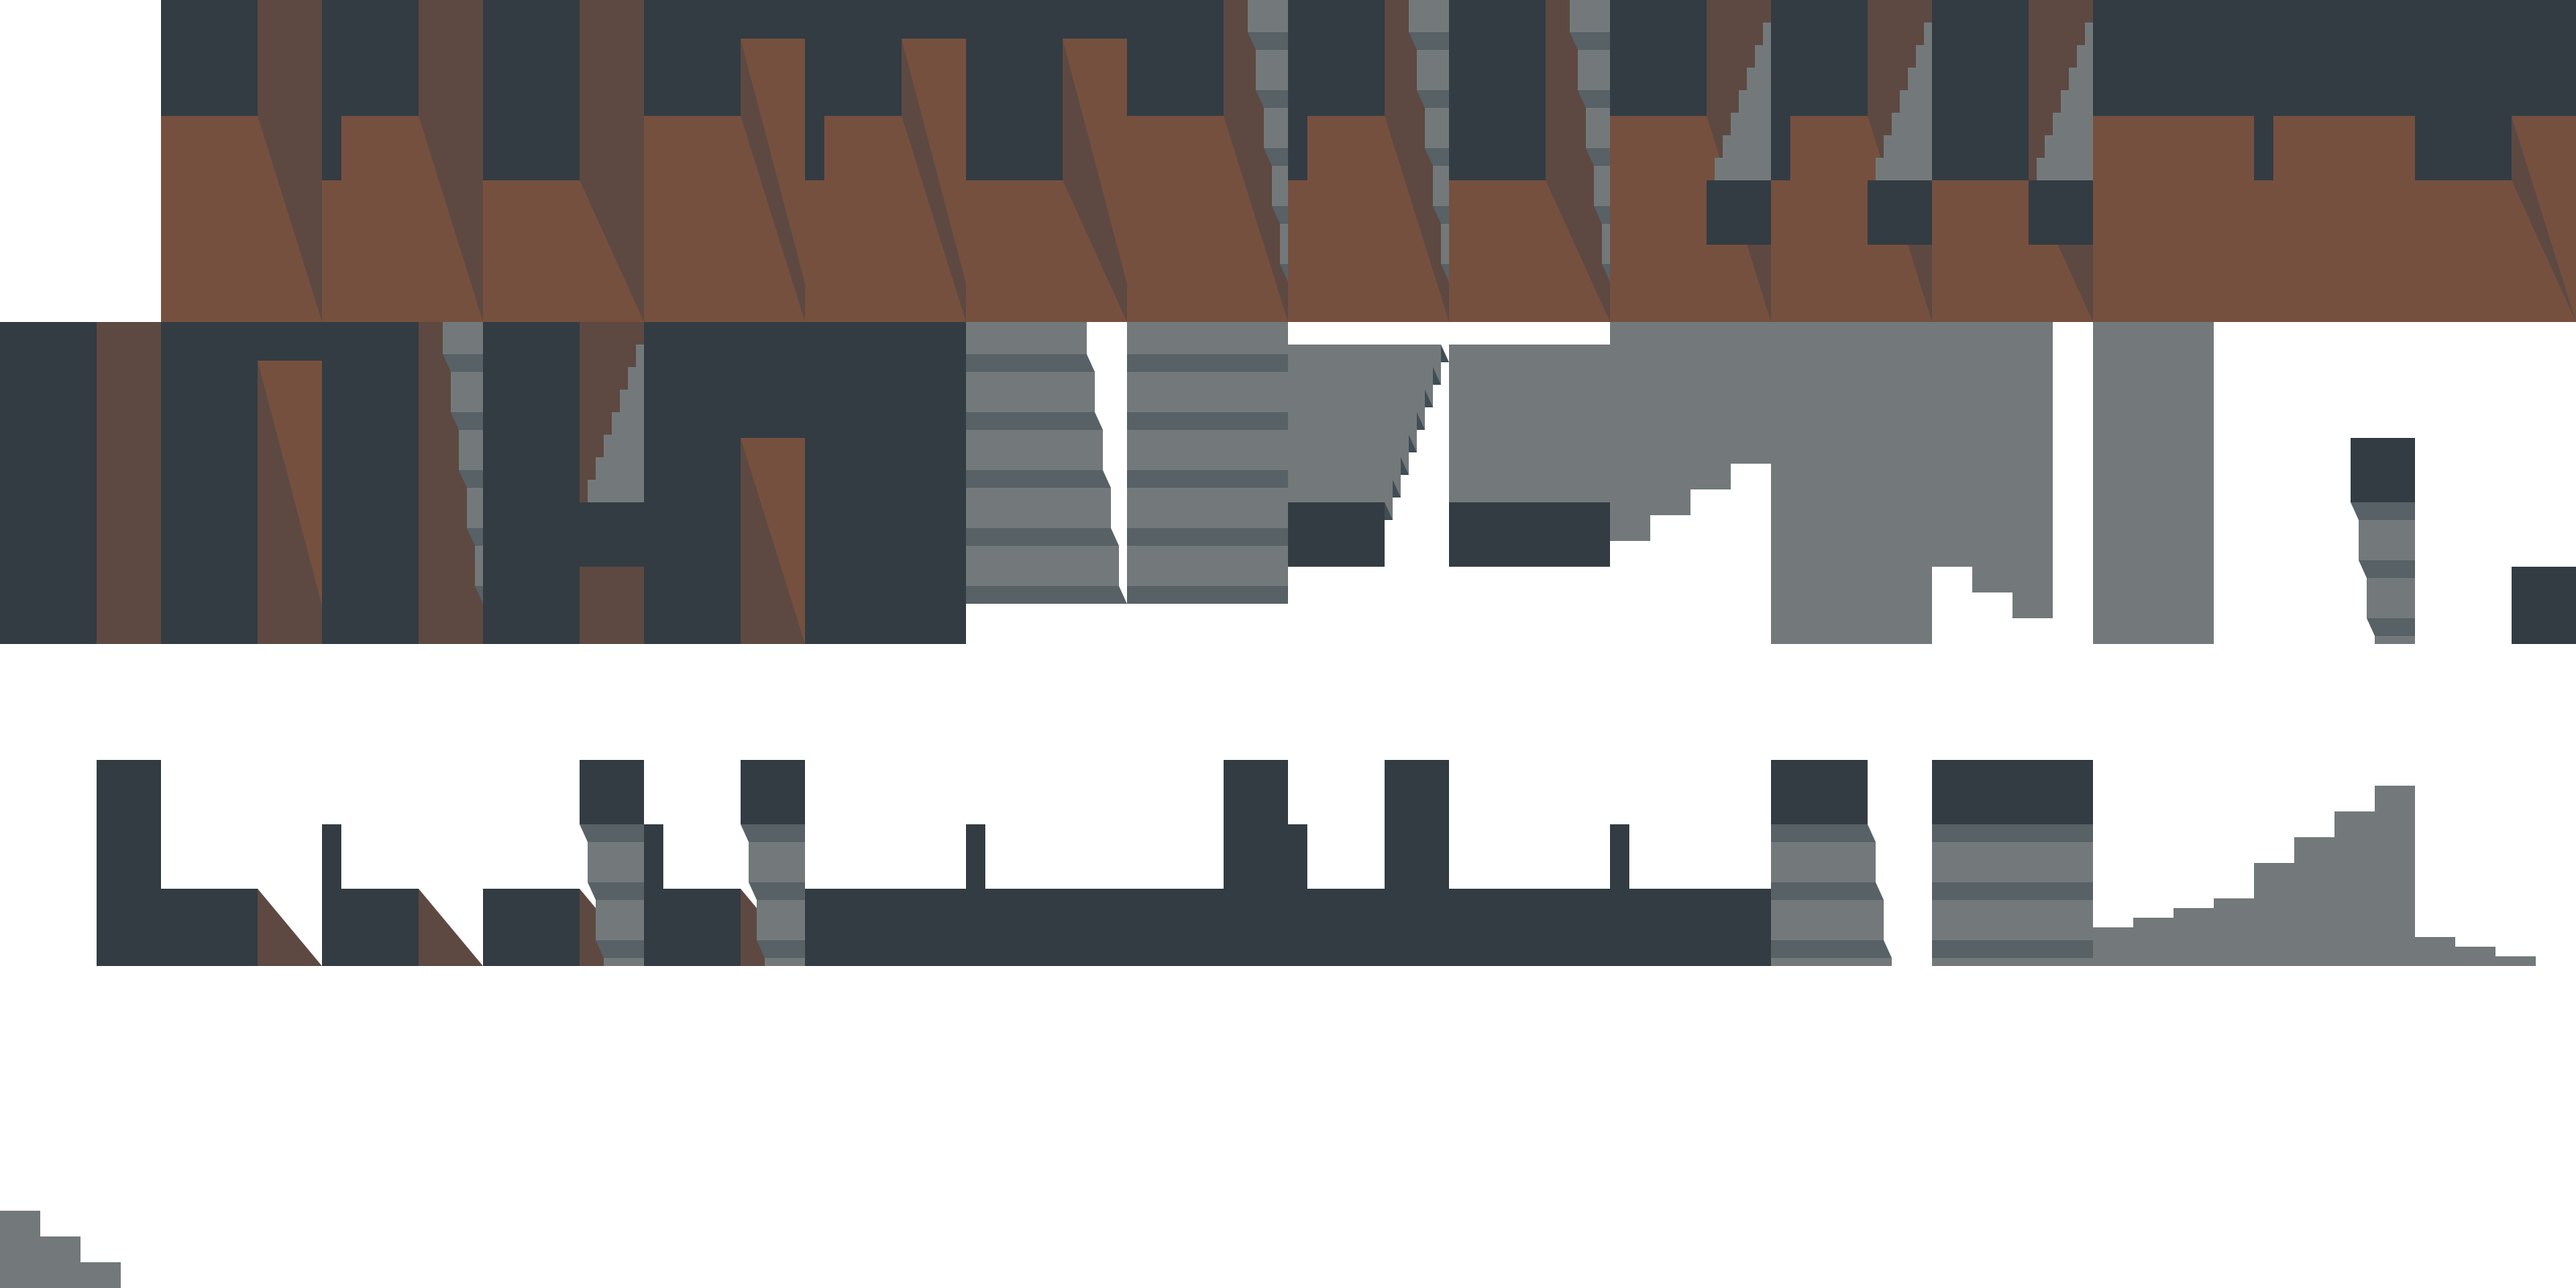
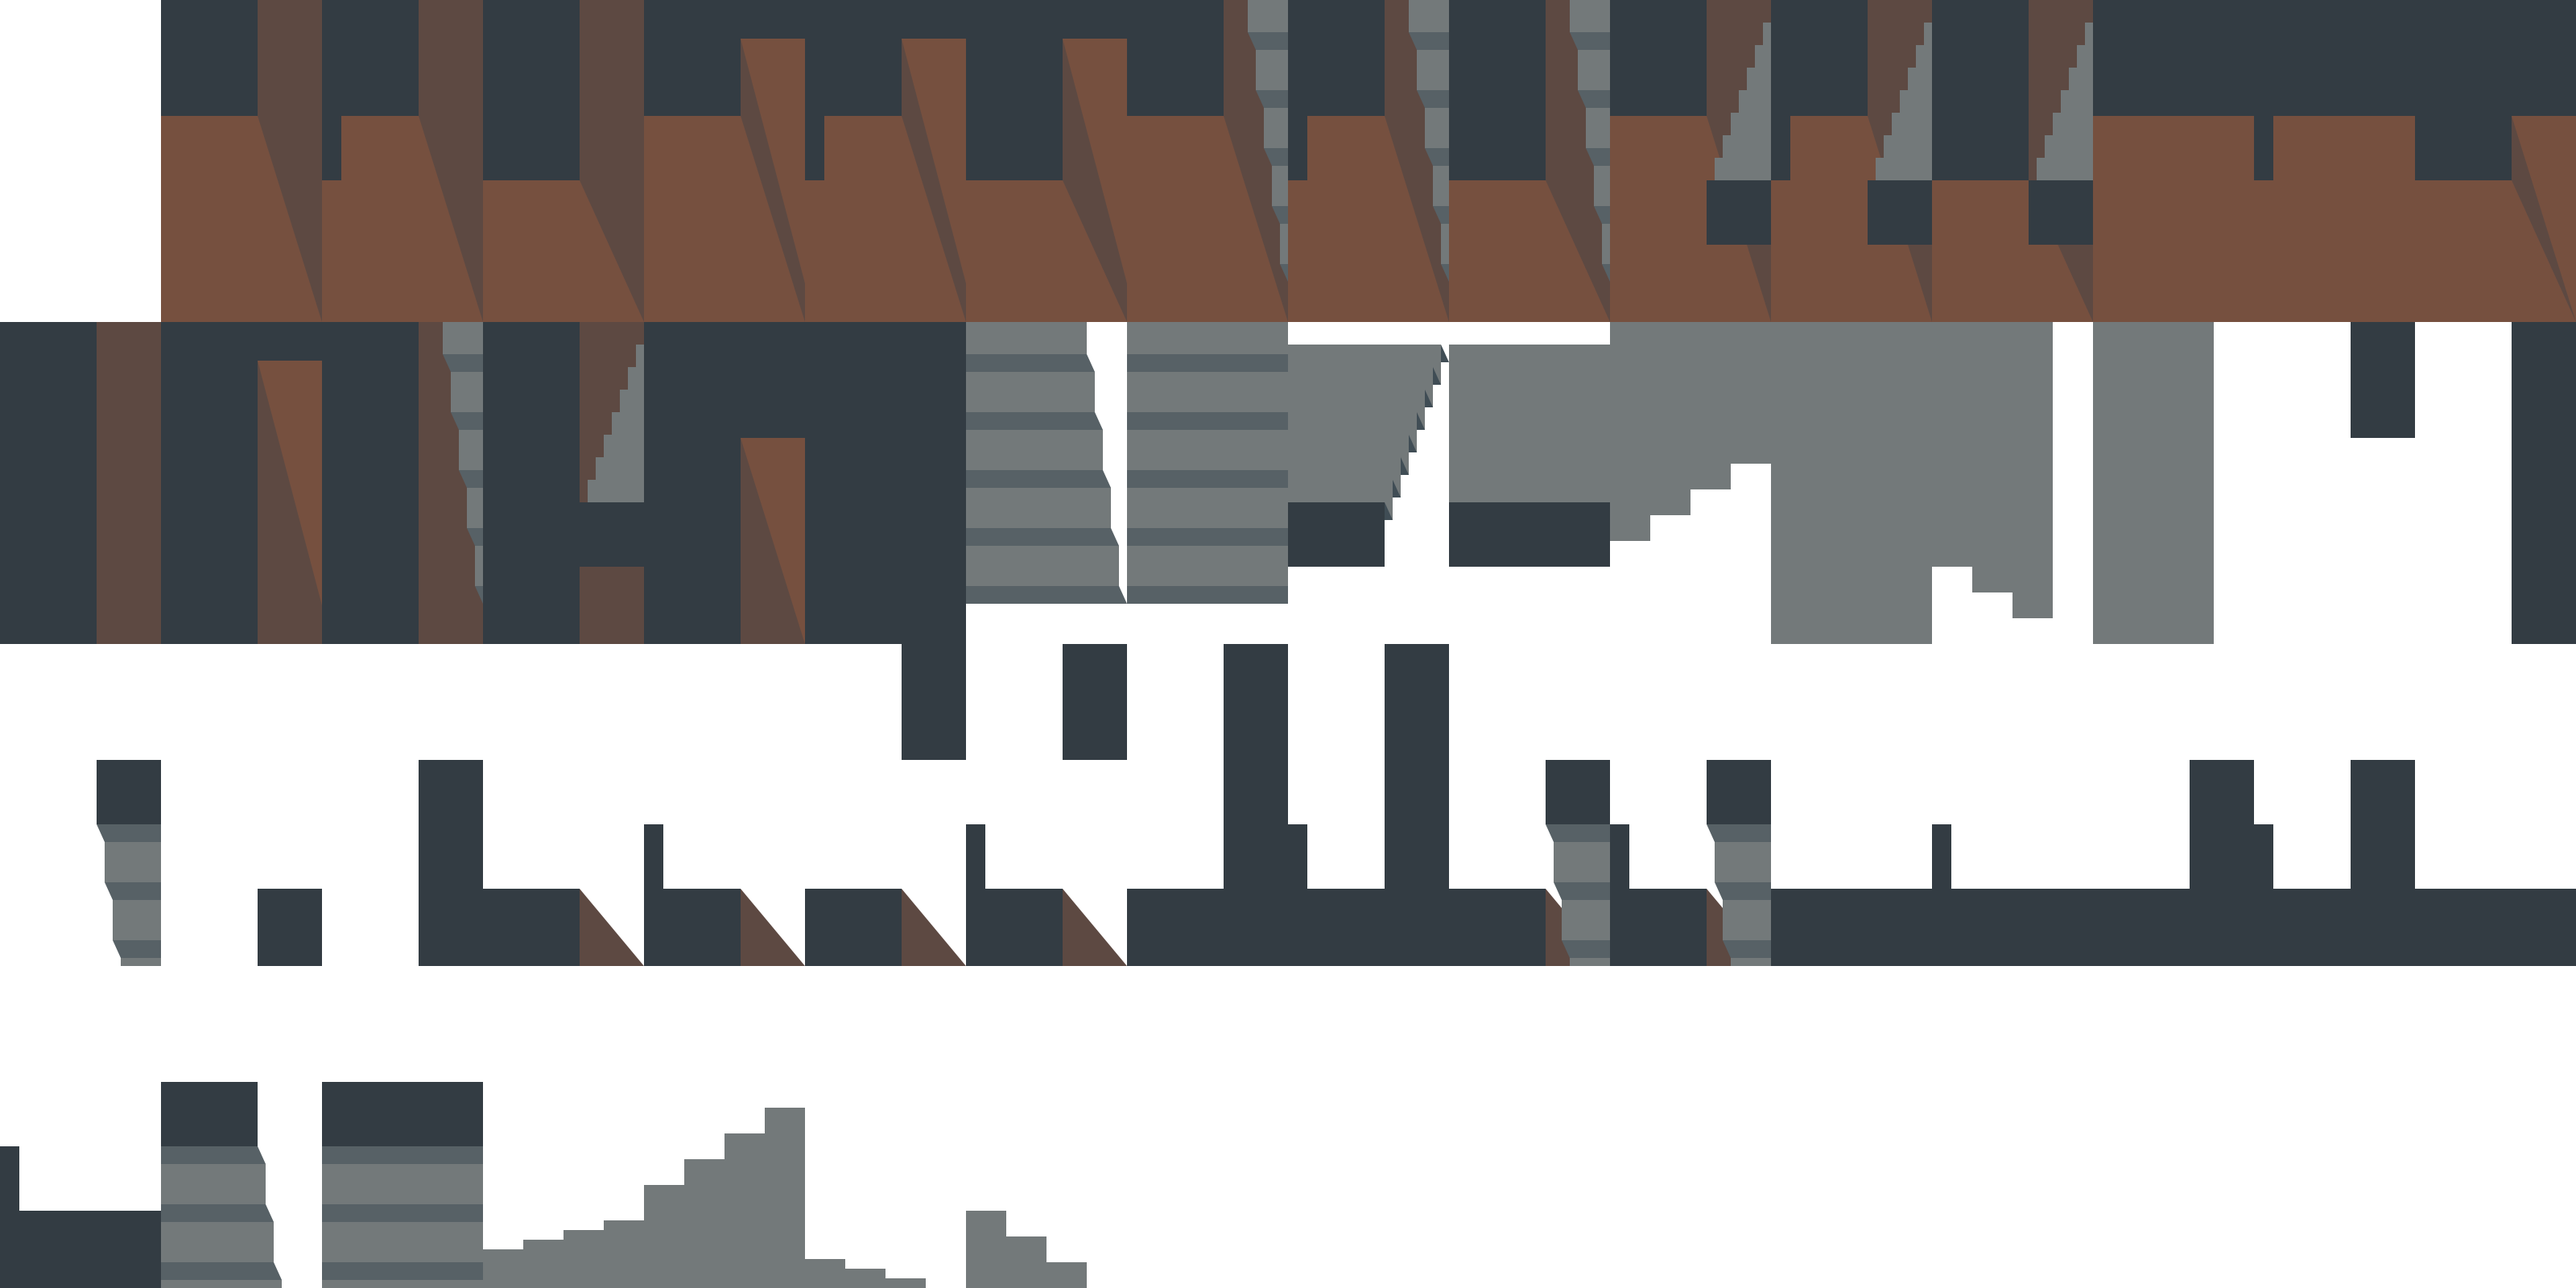
wip

diff --git a/wdn-enumerate/src/lib.rs b/wdn-enumerate/src/lib.rs
@@ -48,10 +48,10 @@ pub enum MidSprite {
 #[derive(Hash, Eq, PartialEq, Clone, Copy, Debug, PartialOrd, Ord)]
 pub enum TopSprite {
     Empty {
-        south_east: SouthEastTopDecoration,
+        east: EastTopDecoration,
     },
     Corner {
-        south_east: SouthEastTopDecoration,
+        east: EastTopDecoration,
         deco: TopDecoration,
     },
     Horizontal {
@@ -87,11 +87,13 @@ pub enum TopDecoration {
 }
 
 #[derive(Hash, Eq, PartialEq, Clone, Copy, Debug, PartialOrd, Ord)]
-pub enum SouthEastTopDecoration {
+pub enum EastTopDecoration {
     None,
-    StairN,
-    StairW,
-    StairWFull,
+    EastStairW,
+    EastStairWFull,
+    SouthEastStairN,
+    SouthEastStairW,
+    SouthEastStairWFull,
 }
 
 impl TileVariant {
@@ -121,7 +123,7 @@ impl Sprite {
         ) && !matches!(
             self.top,
             TopSprite::Empty {
-                south_east: SouthEastTopDecoration::None
+                east: EastTopDecoration::None
             }
         )
     }
@@ -165,11 +167,11 @@ impl MidSprite {
                 _ => MidSprite::StairS,
             },
             TileVariant::StairE => match south {
-                TileVariant::Wall | TileVariant::StairS => MidSprite::StairEFull,
+                TileVariant::Wall | TileVariant::StairE => MidSprite::StairEFull,
                 _ => MidSprite::StairE,
             },
             TileVariant::StairW => match south {
-                TileVariant::Wall | TileVariant::StairS => MidSprite::StairWFull,
+                TileVariant::Wall | TileVariant::StairW => MidSprite::StairWFull,
                 _ => MidSprite::StairW,
             },
         }
@@ -219,34 +221,24 @@ impl TopSprite {
         match south {
             TileVariant::Empty | TileVariant::DoorH | TileVariant::DoorV | TileVariant::StairS => {
                 TopSprite::Empty {
-                    south_east: SouthEastTopDecoration::from_open_tile(
-                        south_east,
-                        TileVariant::Empty,
-                        east,
-                    ),
+                    east: EastTopDecoration::from_open_tile(south_east, TileVariant::Empty, east),
                 }
             }
             TileVariant::StairN => match south_east {
                 TileVariant::StairN | TileVariant::Wall => TopSprite::StairNFull,
                 _ => TopSprite::StairN,
             },
-            TileVariant::Wall if south_east == TileVariant::Wall => TopSprite::Horizontal {
-                deco: TopDecoration::from_center(center),
-            },
+            TileVariant::Wall if south_east == TileVariant::Wall && east != TileVariant::StairW => {
+                TopSprite::Horizontal {
+                    deco: TopDecoration::from_center(center),
+                }
+            }
             TileVariant::Wall if center == TileVariant::Wall => TopSprite::Empty {
-                south_east: SouthEastTopDecoration::from_open_tile(
-                    south_east,
-                    TileVariant::Wall,
-                    east,
-                ),
+                east: EastTopDecoration::from_open_tile(south_east, TileVariant::Wall, east),
             },
             TileVariant::Wall => TopSprite::Corner {
                 deco: TopDecoration::from_center(center),
-                south_east: SouthEastTopDecoration::from_open_tile(
-                    south_east,
-                    TileVariant::Wall,
-                    east,
-                ),
+                east: EastTopDecoration::from_open_tile(south_east, TileVariant::Wall, east),
             },
             TileVariant::StairE => match center {
                 TileVariant::StairE | TileVariant::Wall => TopSprite::StairEFull,
@@ -270,19 +262,25 @@ impl TopDecoration {
     }
 }
 
-impl SouthEastTopDecoration {
+impl EastTopDecoration {
     /// Maps a non-`Wall` south-east tile to the corner decoration drawn there.
-    fn from_open_tile(tile: TileVariant, west: TileVariant, north: TileVariant) -> Self {
-        match tile {
-            TileVariant::StairN => match west {
-                TileVariant::StairN | TileVariant::Wall => SouthEastTopDecoration::StairN,
-                _ => SouthEastTopDecoration::None,
+    fn from_open_tile(south_east: TileVariant, south: TileVariant, east: TileVariant) -> Self {
+        match south_east {
+            TileVariant::StairN => match south {
+                TileVariant::StairN | TileVariant::Wall => EastTopDecoration::SouthEastStairN,
+                _ => EastTopDecoration::None,
             },
-            TileVariant::StairW => match north {
-                TileVariant::StairW | TileVariant::Wall => SouthEastTopDecoration::StairWFull,
-                _ => SouthEastTopDecoration::StairW,
+            TileVariant::StairW => match east {
+                TileVariant::StairW | TileVariant::Wall => EastTopDecoration::SouthEastStairWFull,
+                _ => EastTopDecoration::SouthEastStairW,
             },
-            _ => SouthEastTopDecoration::None,
+            _ => match east {
+                TileVariant::StairW => match south_east {
+                    TileVariant::StairW | TileVariant::Wall => EastTopDecoration::EastStairWFull,
+                    _ => EastTopDecoration::EastStairW,
+                },
+                _ => EastTopDecoration::None,
+            },
         }
     }
 }
@@ -334,9 +332,12 @@ impl fmt::Display for SouthDecoration {
 impl fmt::Display for TopSprite {
     fn fmt(&self, f: &mut fmt::Formatter<'_>) -> fmt::Result {
         match self {
-            TopSprite::Empty { south_east } => write!(f, "Empty{south_east}"),
+            TopSprite::Empty { east: south_east } => write!(f, "Empty{south_east}"),
             TopSprite::Horizontal { deco } => write!(f, "Horizontal{deco}"),
-            TopSprite::Corner { deco, south_east } => {
+            TopSprite::Corner {
+                deco,
+                east: south_east,
+            } => {
                 write!(f, "Corner{deco}{south_east}")
             }
             TopSprite::StairN => write!(f, "StairN"),
@@ -358,13 +359,15 @@ impl fmt::Display for TopDecoration {
     }
 }
 
-impl fmt::Display for SouthEastTopDecoration {
+impl fmt::Display for EastTopDecoration {
     fn fmt(&self, f: &mut fmt::Formatter<'_>) -> fmt::Result {
         match self {
-            SouthEastTopDecoration::None => write!(f, ""),
-            SouthEastTopDecoration::StairN => write!(f, "_SouthEastStairN"),
-            SouthEastTopDecoration::StairW => write!(f, "_SouthEastStairW"),
-            SouthEastTopDecoration::StairWFull => write!(f, "_SouthEastStairWFull"),
+            EastTopDecoration::None => write!(f, ""),
+            EastTopDecoration::EastStairW => write!(f, "_EastStairW"),
+            EastTopDecoration::EastStairWFull => write!(f, "_EastStairWFull"),
+            EastTopDecoration::SouthEastStairN => write!(f, "_SouthEastStairN"),
+            EastTopDecoration::SouthEastStairW => write!(f, "_SouthEastStairW"),
+            EastTopDecoration::SouthEastStairWFull => write!(f, "_SouthEastStairWFull"),
         }
     }
 }

diff --git a/wdn-enumerate/src/ids.rs b/wdn-enumerate/src/ids.rs
@@ -117,61 +117,83 @@ impl TopSprite {
 
         match self {
             Empty {
-                south_east: SouthEastTopDecoration::None,
+                east: EastTopDecoration::None,
             } => 0,
             Empty {
-                south_east: SouthEastTopDecoration::StairN,
+                east: EastTopDecoration::EastStairW,
             } => 30,
             Empty {
-                south_east: SouthEastTopDecoration::StairW,
+                east: EastTopDecoration::EastStairWFull,
             } => 31,
             Empty {
-                south_east: SouthEastTopDecoration::StairWFull,
+                east: EastTopDecoration::SouthEastStairN,
             } => 32,
-            Corner {
-                south_east: SouthEastTopDecoration::None,
-                deco: TopDecoration::None,
+            Empty {
+                east: EastTopDecoration::SouthEastStairW,
             } => 33,
-            Corner {
-                south_east: SouthEastTopDecoration::None,
-                deco: TopDecoration::Door,
+            Empty {
+                east: EastTopDecoration::SouthEastStairWFull,
             } => 34,
             Corner {
-                south_east: SouthEastTopDecoration::StairN,
+                east: EastTopDecoration::None,
                 deco: TopDecoration::None,
             } => 35,
             Corner {
-                south_east: SouthEastTopDecoration::StairN,
+                east: EastTopDecoration::None,
                 deco: TopDecoration::Door,
             } => 36,
             Corner {
-                south_east: SouthEastTopDecoration::StairW,
+                east: EastTopDecoration::EastStairW,
                 deco: TopDecoration::None,
             } => 37,
             Corner {
-                south_east: SouthEastTopDecoration::StairW,
+                east: EastTopDecoration::EastStairW,
                 deco: TopDecoration::Door,
             } => 38,
             Corner {
-                south_east: SouthEastTopDecoration::StairWFull,
+                east: EastTopDecoration::EastStairWFull,
                 deco: TopDecoration::None,
             } => 39,
             Corner {
-                south_east: SouthEastTopDecoration::StairWFull,
+                east: EastTopDecoration::EastStairWFull,
                 deco: TopDecoration::Door,
             } => 40,
-            Horizontal {
+            Corner {
+                east: EastTopDecoration::SouthEastStairN,
                 deco: TopDecoration::None,
             } => 41,
-            Horizontal {
+            Corner {
+                east: EastTopDecoration::SouthEastStairN,
                 deco: TopDecoration::Door,
             } => 42,
-            StairN => 43,
-            StairNFull => 44,
-            StairE => 45,
-            StairEFull => 46,
-            StairW => 47,
-            StairWFull => 48,
+            Corner {
+                east: EastTopDecoration::SouthEastStairW,
+                deco: TopDecoration::None,
+            } => 43,
+            Corner {
+                east: EastTopDecoration::SouthEastStairW,
+                deco: TopDecoration::Door,
+            } => 44,
+            Corner {
+                east: EastTopDecoration::SouthEastStairWFull,
+                deco: TopDecoration::None,
+            } => 45,
+            Corner {
+                east: EastTopDecoration::SouthEastStairWFull,
+                deco: TopDecoration::Door,
+            } => 46,
+            Horizontal {
+                deco: TopDecoration::None,
+            } => 47,
+            Horizontal {
+                deco: TopDecoration::Door,
+            } => 48,
+            StairN => 49,
+            StairNFull => 50,
+            StairE => 51,
+            StairEFull => 52,
+            StairW => 53,
+            StairWFull => 54,
         }
     }
 }

diff --git a/wdn-enumerate/src/main.rs b/wdn-enumerate/src/main.rs
@@ -38,7 +38,7 @@ fn main() {
     println!("Unique mids: {}", mids.len());
     for (i, mid) in mids.iter().enumerate() {
         assert_eq!(mid.id(), i as u16);
-        println!("  {mid:?} => {}", i);
+        println!("  {mid} => {}", i);
     }
 
     let mut tops = tops.into_iter().collect::<Vec<_>>();
@@ -49,19 +49,19 @@ fn main() {
         if matches!(
             top,
             TopSprite::Empty {
-                south_east: SouthEastTopDecoration::None
+                east: EastTopDecoration::None
             }
         ) {
             assert_eq!(top.id(), 0);
+            println!("  {top} => 0,");
         } else {
             assert_eq!(
                 top.id(),
                 i as u16 + mids.len() as u16 - 1,
-                "top: {top:?}, i: {i}"
+                "top: {top}, i: {i}"
             );
+            println!("  {top} => {},", i + mids.len() - 1);
         }
-
-        println!("  {top:?} => {},", i + mids.len() - 1);
     }
 
     println!("Unique sprites: {}", sprites.len());
